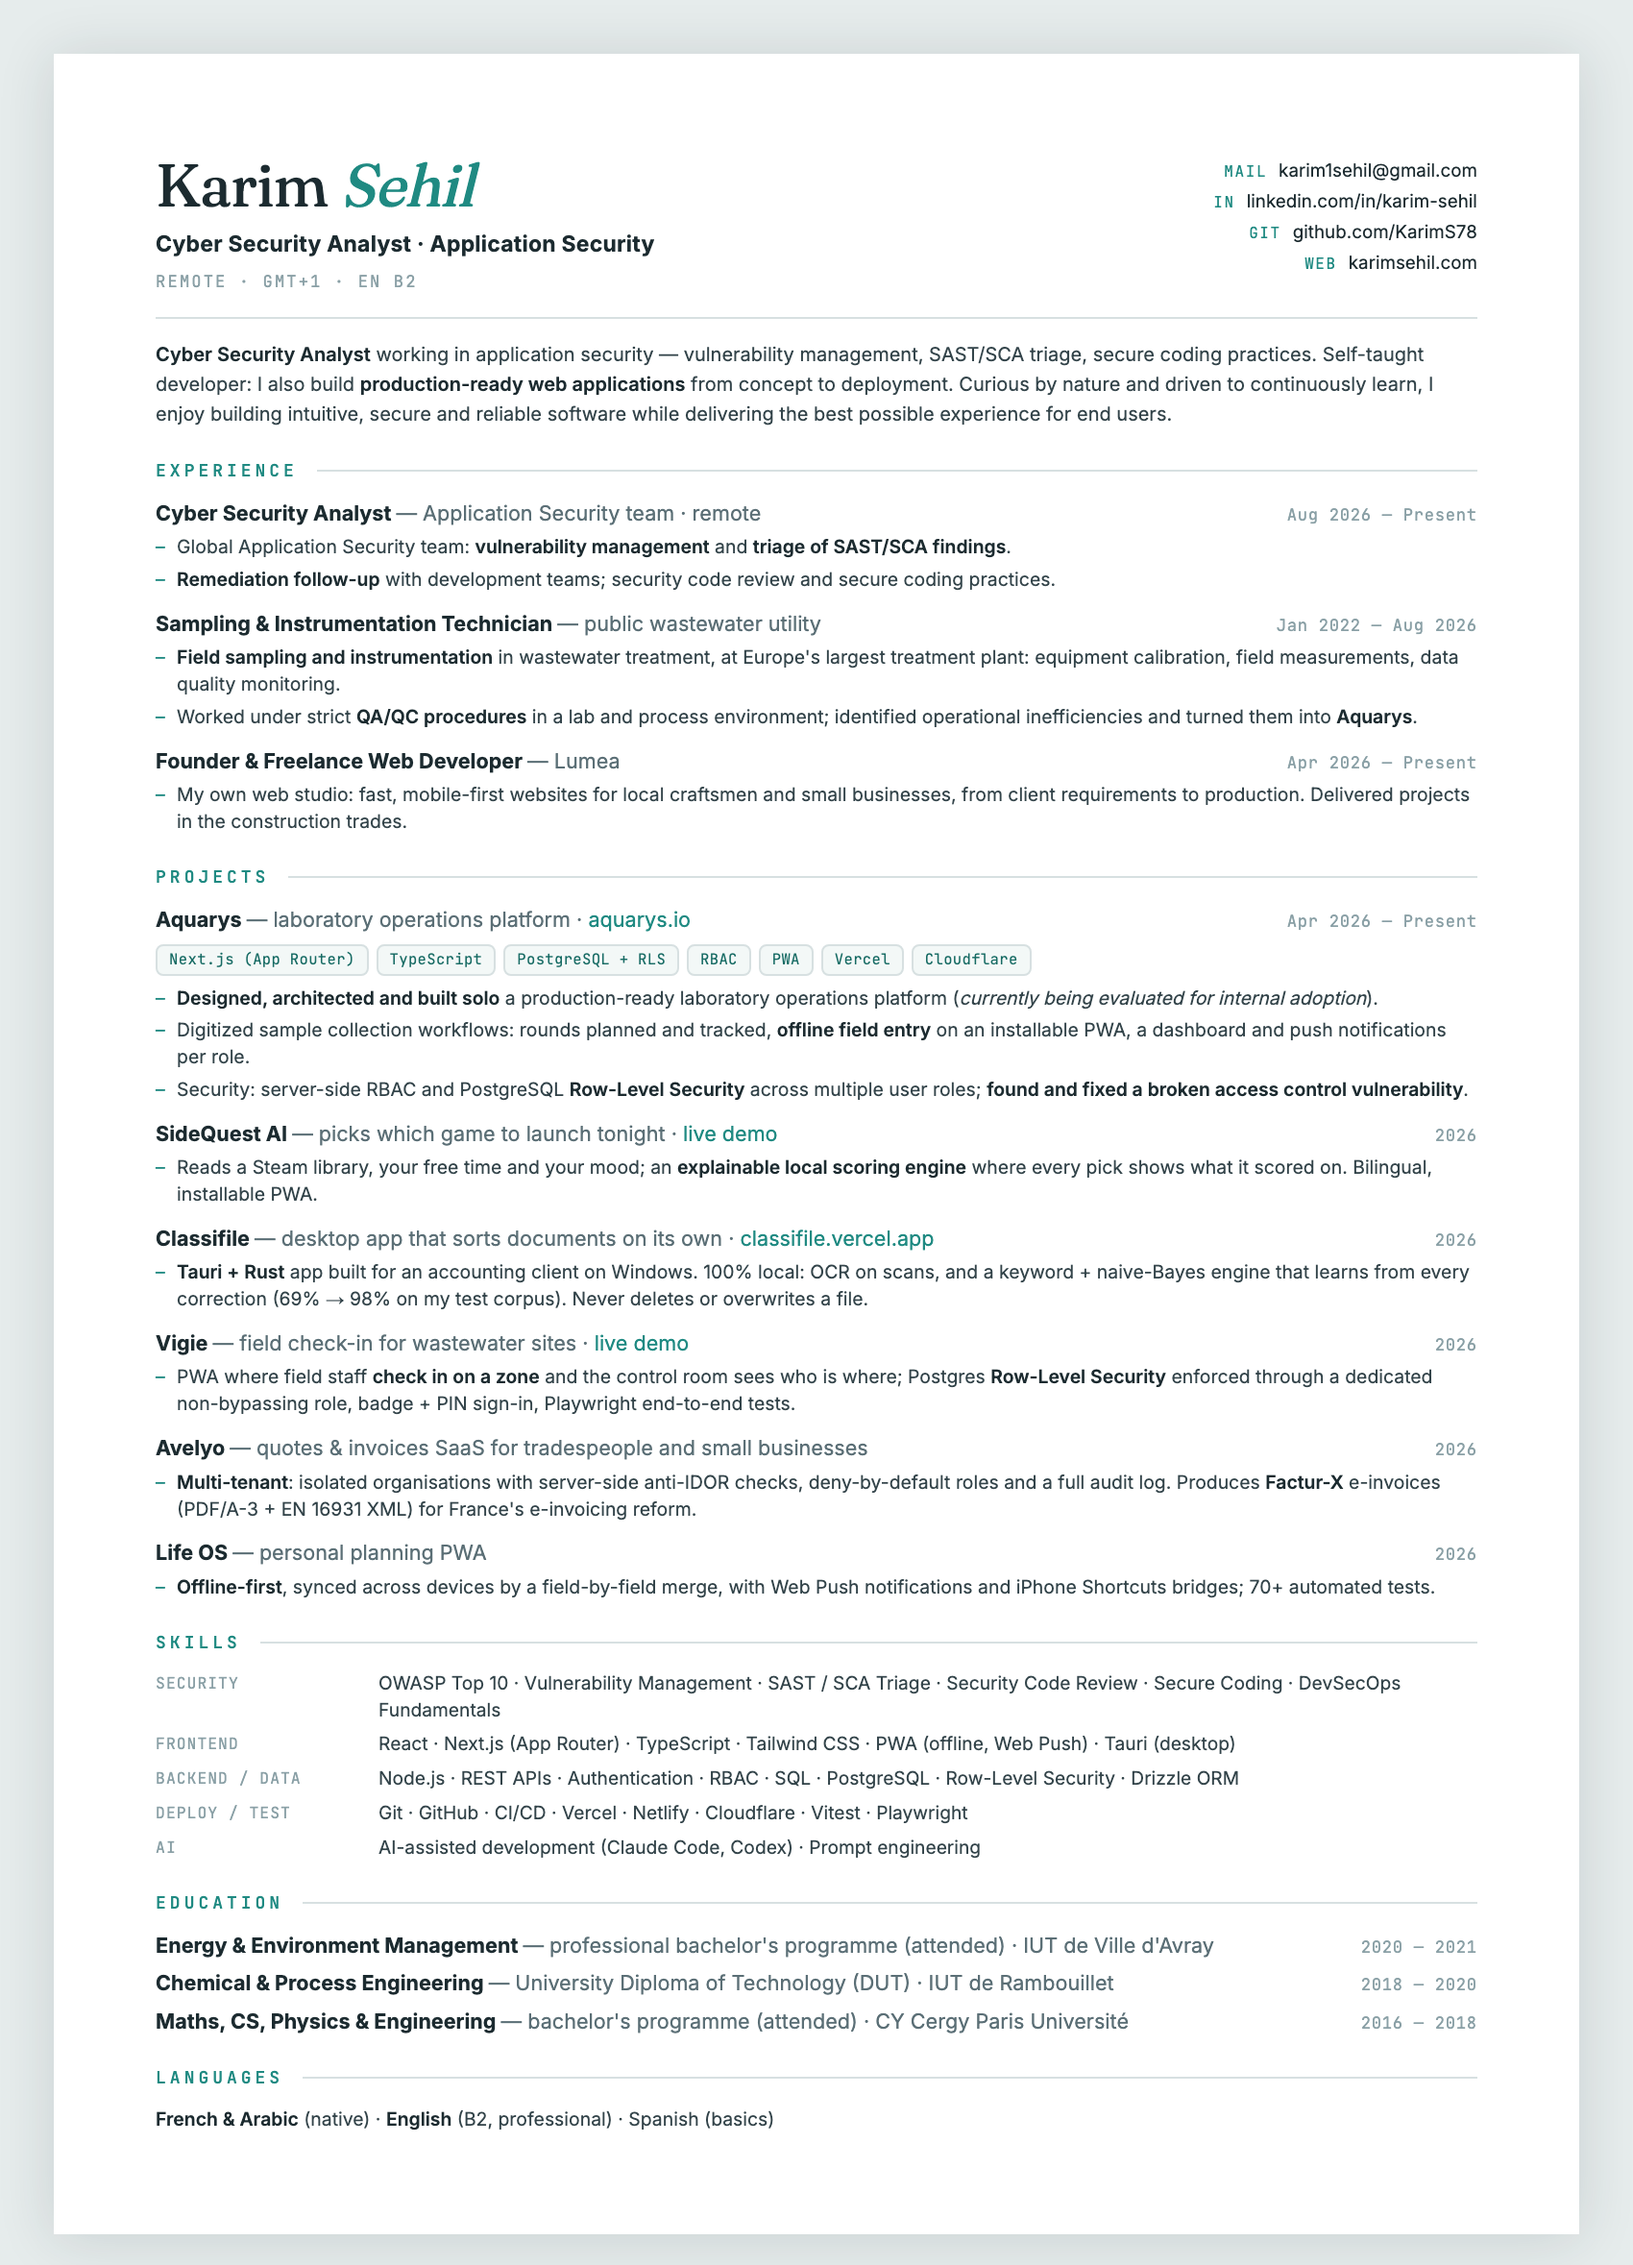
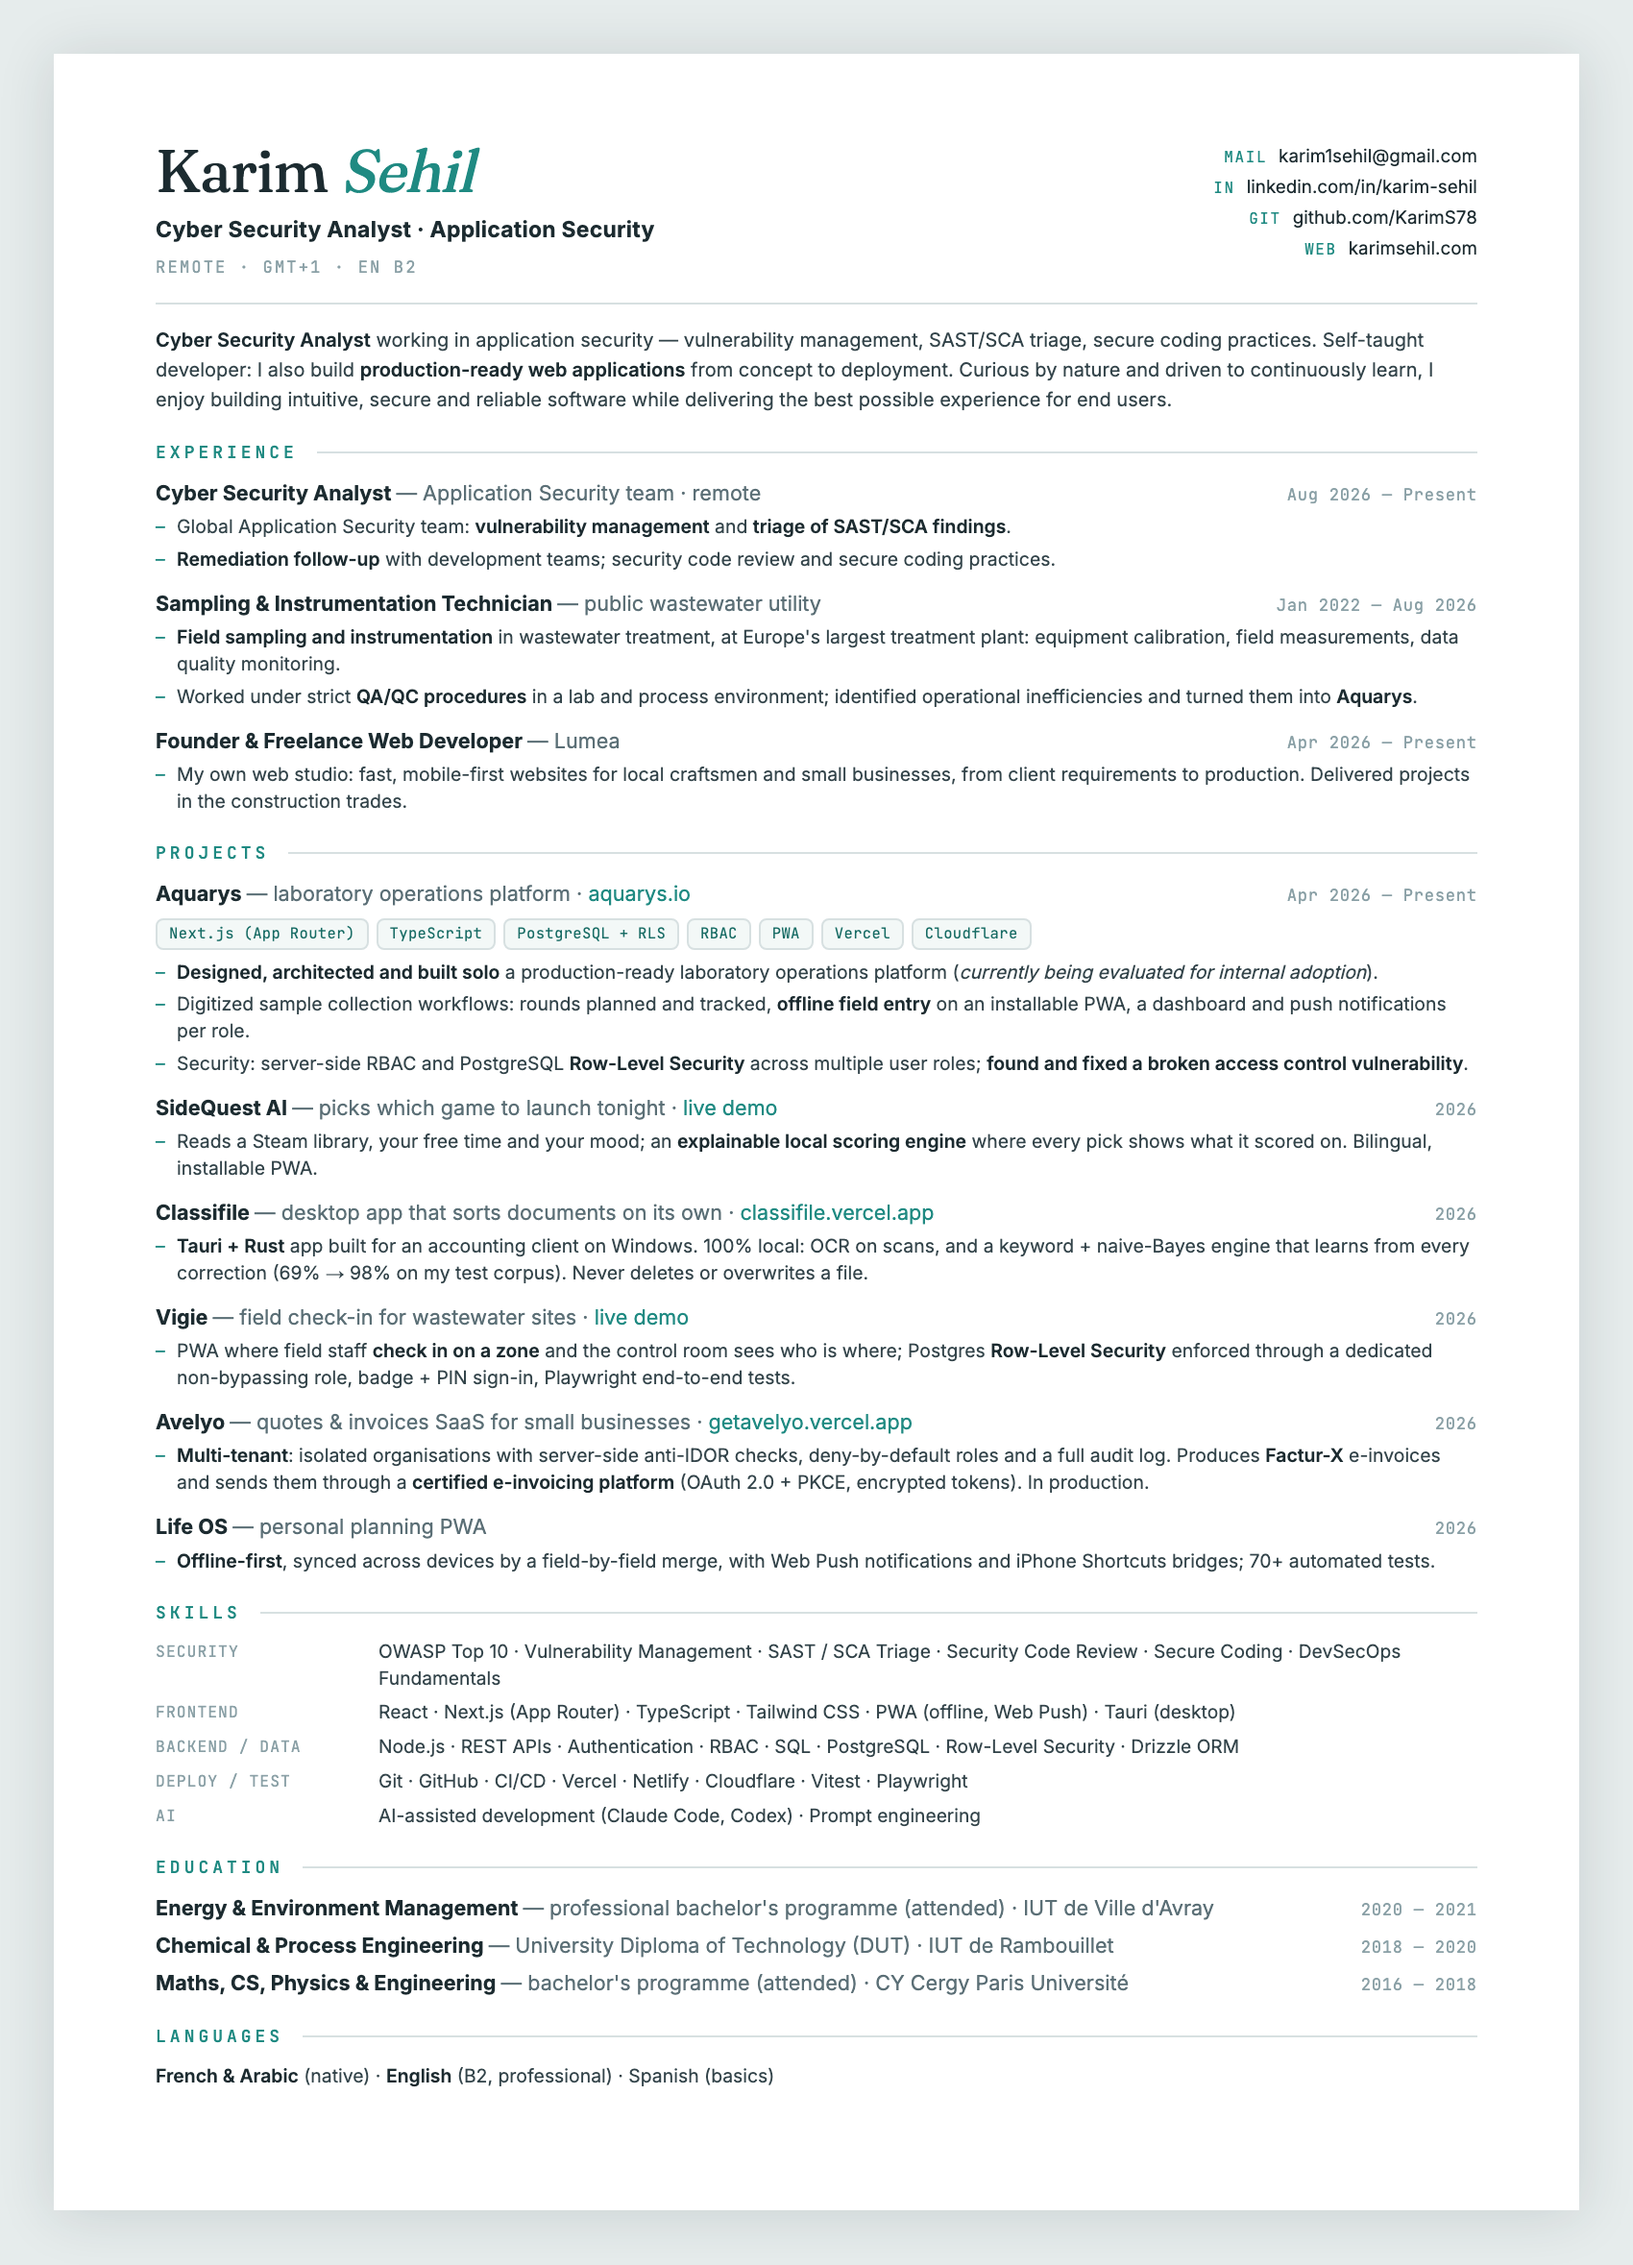
Avelyo : lien et plateforme agréée ; marges resserrées pour tenir sur une page

diff --git a/index.html b/index.html
@@ -20,7 +20,7 @@
   html,body{background:#fff}
   body{
     font-family:var(--sans); color:var(--ink); font-size:10.4px; line-height:1.45;
-    padding:14mm 14mm; width:210mm; -webkit-print-color-adjust:exact; print-color-adjust:exact;
+    padding:12mm 14mm; width:210mm; -webkit-print-color-adjust:exact; print-color-adjust:exact;
   }
   a{color:var(--teal); text-decoration:none}
 
@@ -41,7 +41,7 @@
   .summary b{color:var(--ink); font-weight:600}
 
   /* ---------- section ---------- */
-  .sec{display:flex; align-items:center; gap:10px; margin:15px 0 8px}
+  .sec{display:flex; align-items:center; gap:10px; margin:13px 0 7px}
   .sec h2{font-family:var(--mono); font-weight:500; font-size:9px; letter-spacing:.22em; text-transform:uppercase; color:var(--teal)}
   .sec .ln{flex:1; height:1px; background:var(--line)}
 
@@ -176,11 +176,11 @@
   </ul>
 
   <div class="item-head blockgap">
-    <div class="t">Avelyo <span class="desc">— quotes &amp; invoices SaaS for tradespeople and small businesses</span></div>
+    <div class="t">Avelyo <span class="desc">— quotes &amp; invoices SaaS for small businesses · <a href="https://getavelyo.vercel.app">getavelyo.vercel.app</a></span></div>
     <div class="date">2026</div>
   </div>
   <ul>
-    <li><b>Multi-tenant</b>: isolated organisations with server-side anti-IDOR checks, deny-by-default roles and a full audit log. Produces <b>Factur-X</b> e-invoices (PDF/A-3 + EN 16931 XML) for France's e-invoicing reform.</li>
+    <li><b>Multi-tenant</b>: isolated organisations with server-side anti-IDOR checks, deny-by-default roles and a full audit log. Produces <b>Factur-X</b> e-invoices and sends them through a <b>certified e-invoicing platform</b> (OAuth 2.0 + PKCE, encrypted tokens). In production.</li>
   </ul>
 
   <div class="item-head blockgap">
